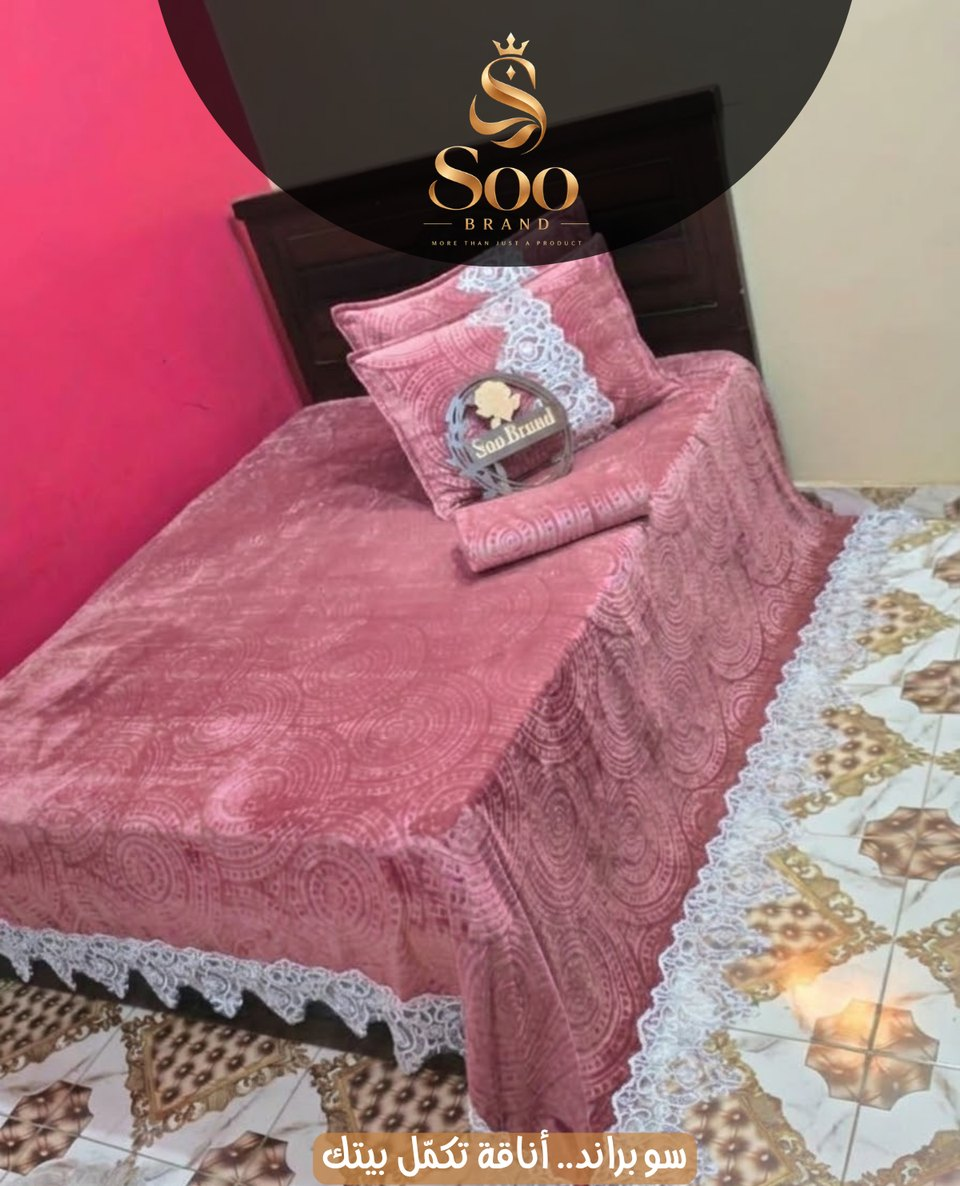
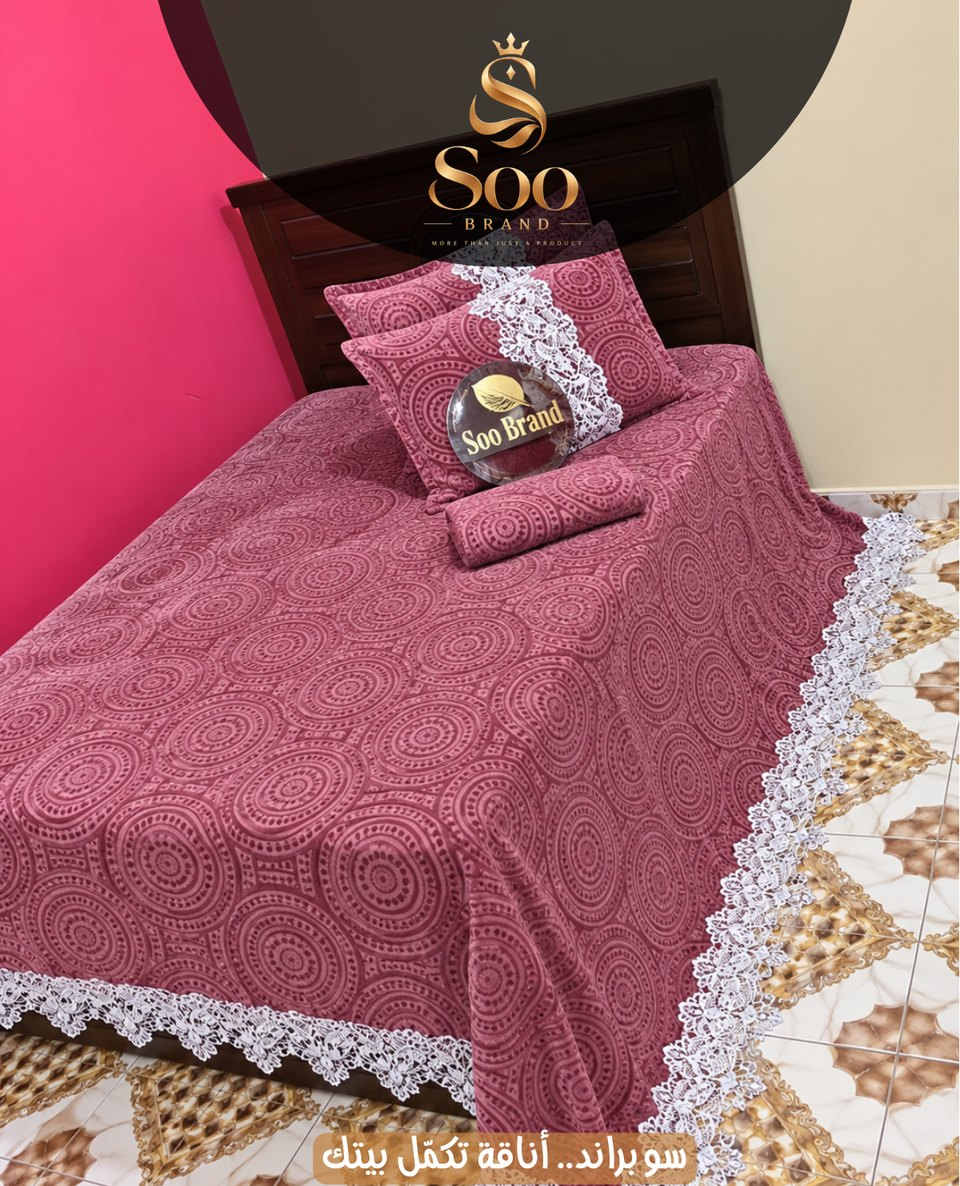
Add files via upload

diff --git a/index.html b/index.html
@@ -319,8 +319,8 @@ details p{margin:0 0 14px;color:var(--muted);font-size:15.5px}
   <div class="dots" aria-hidden="true"><i class=on></i><i></i></div>
   <div class="cbody">
     <h3 id="t-S01">مفرش حفر ليزر وجهين - نص بطانية</h3>
-    <p class="desc">أناقة بتكمّل بيتك. مفرش سرير حفر ليزر وجهين متاح في 4 ألوان فخمة: برجندي، كاشمير، زيتي، وجراي رصاصي غامق، وبدانتيل فضي مطرز حوالين المفرش والخداديات. نص بطانية، يعني دفا وشياكة في نفس الوقت.</p>
-    <div class="colors" role="group" aria-label="اختار اللون"><span class="clbl">اللون: <b class="cname">برجندي</b></span><div class="sws"><button type="button" class="sw" aria-pressed="true" aria-label="برجندي" title="برجندي" data-name="برجندي" data-imgs="p16,p17" style="--c:#7a1530"></button><button type="button" class="sw" aria-pressed="false" aria-label="كاشمير" title="كاشمير" data-name="كاشمير" data-imgs="c_kashmir" style="--c:#be6d7c"></button><button type="button" class="sw" aria-pressed="false" aria-label="زيتي" title="زيتي" data-name="زيتي" data-imgs="c_olive" style="--c:#5a6b1c"></button><button type="button" class="sw" aria-pressed="false" aria-label="جراي رصاصي غامق" title="جراي رصاصي غامق" data-name="جراي رصاصي غامق" data-imgs="c_gray" style="--c:#474653"></button></div></div>
+    <p class="desc">أناقة بتكمّل بيتك. مفرش سرير حفر ليزر وجهين متاح في 4 ألوان فخمة: برجندي، كاشمير، أخضر داكن، وجراي رصاصي غامق، وبدانتيل فضي مطرز حوالين المفرش والخداديات. نص بطانية، يعني دفا وشياكة في نفس الوقت.</p>
+    <div class="colors" role="group" aria-label="اختار اللون"><span class="clbl">اللون: <b class="cname">برجندي</b></span><div class="sws"><button type="button" class="sw" aria-pressed="true" aria-label="برجندي" title="برجندي" data-name="برجندي" data-imgs="p16,p17" style="--c:#7a1530"></button><button type="button" class="sw" aria-pressed="false" aria-label="كاشمير" title="كاشمير" data-name="كاشمير" data-imgs="c_kashmir" style="--c:#b76277"></button><button type="button" class="sw" aria-pressed="false" aria-label="أخضر داكن" title="أخضر داكن" data-name="أخضر داكن" data-imgs="c_green" style="--c:#0a4a37"></button><button type="button" class="sw" aria-pressed="false" aria-label="جراي رصاصي غامق" title="جراي رصاصي غامق" data-name="جراي رصاصي غامق" data-imgs="c_gray" style="--c:#474653"></button></div></div>
     <p class="sub">الطقم 4 قطع لسرير 170 سم</p>
     <dl class="parts"><div><dt>مفرش</dt><dd><bdi dir="ltr">260 × 240</bdi> سم</dd></div><div><dt>وش مخدة</dt><dd><bdi dir="ltr">170 × 45</bdi> سم</dd></div><div><dt>2 وش خدادية</dt><dd><bdi dir="ltr">75 × 55</bdi> سم</dd></div></dl>
     <div class="price">
